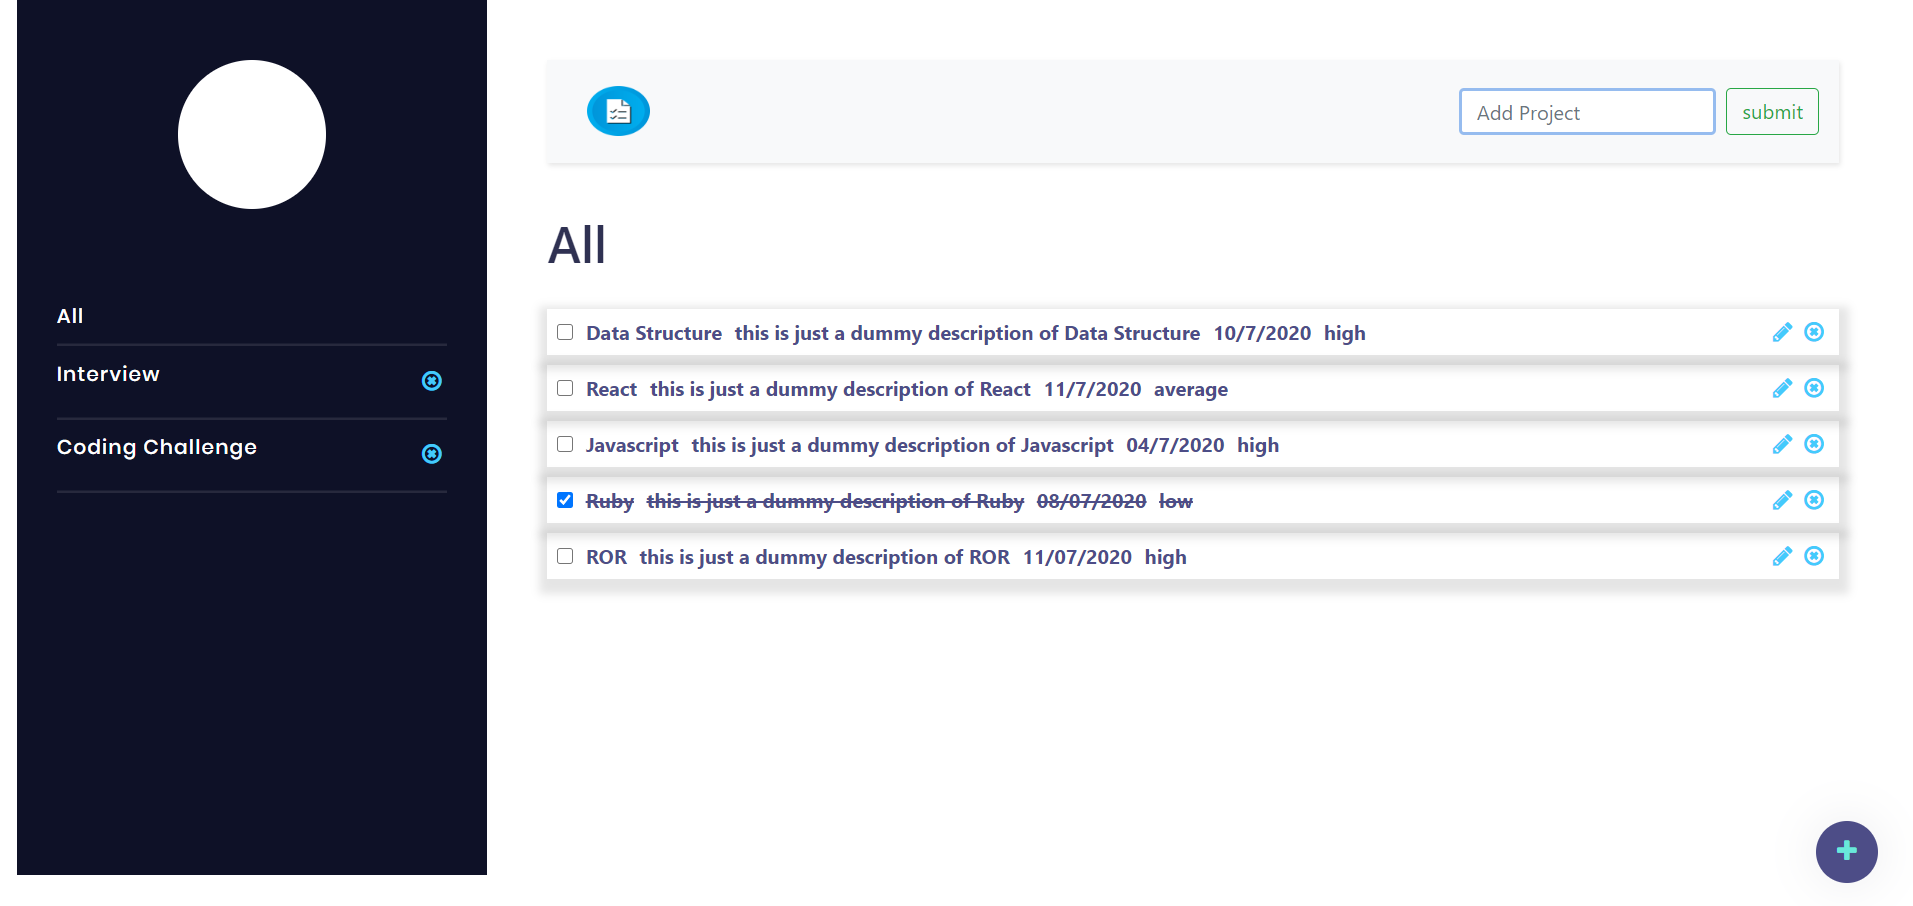
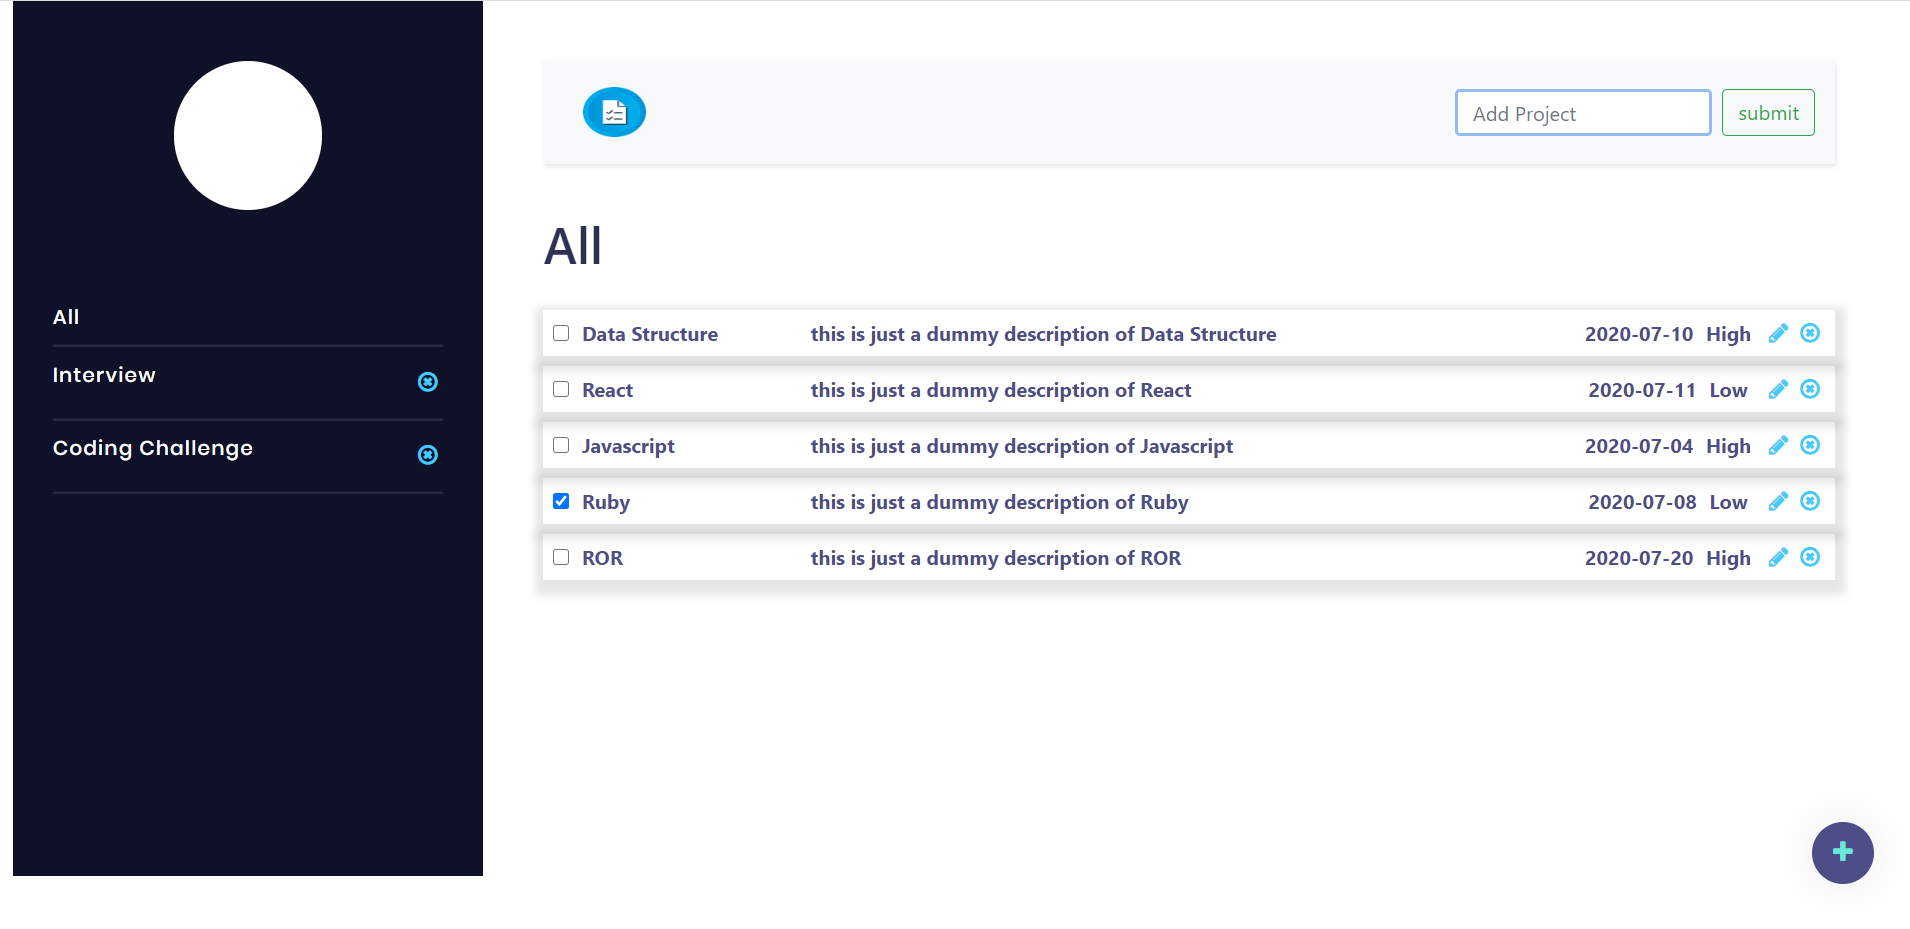
add default data with right styling

diff --git a/src/components/data.js b/src/components/data.js
@@ -5,16 +5,16 @@ const todoItems = [
     title: 'Data Structure',
     priority: 'High',
     due: '2020-07-10',
-    description: 'this is just a dummy description of Data Structure',
+    description: 'This is just a dummy description of Data Structure',
     project: 'Interview',
     complete: false,
     uuid: 12,
   },
   {
     title: 'React',
-    priority: 'Average',
+    priority: 'Low',
     due: '2020-07-11',
-    description: 'this is just a dummy description of React',
+    description: 'This is just a dummy description of React',
     project: 'Interview',
     complete: false,
     uuid: 13,
@@ -23,7 +23,7 @@ const todoItems = [
     title: 'Javascript',
     priority: 'High',
     due: '2020-07-04',
-    description: 'this is just a dummy description of Javascript',
+    description: 'This is just a dummy description of Javascript',
     project: 'Coding Challenge',
     complete: false,
     uuid: 14,
@@ -32,7 +32,7 @@ const todoItems = [
     title: 'Ruby',
     priority: 'Low',
     due: '2020-07-08',
-    description: 'this is just a dummy description of Ruby',
+    description: 'This is just a dummy description of Ruby',
     project: 'Coding Challenge',
     complete: true,
     uuid: 15,
@@ -41,18 +41,14 @@ const todoItems = [
     title: 'ROR',
     priority: 'High',
     due: '2020-07-20',
-    description: 'this is just a dummy description of ROR',
+    description: 'This is just a dummy description of ROR',
     project: 'Interview',
     complete: false,
     uuid: 16,
   },
 ];
 
-const projects = [
-  'All',
-  'Interview',
-  'Coding Challenge',
-];
+const projects = ['All', 'Interview', 'Coding Challenge'];
 
 const itemsDatabase = new utils.Database(todoItems);
 itemsDatabase.setItems('listItems');
